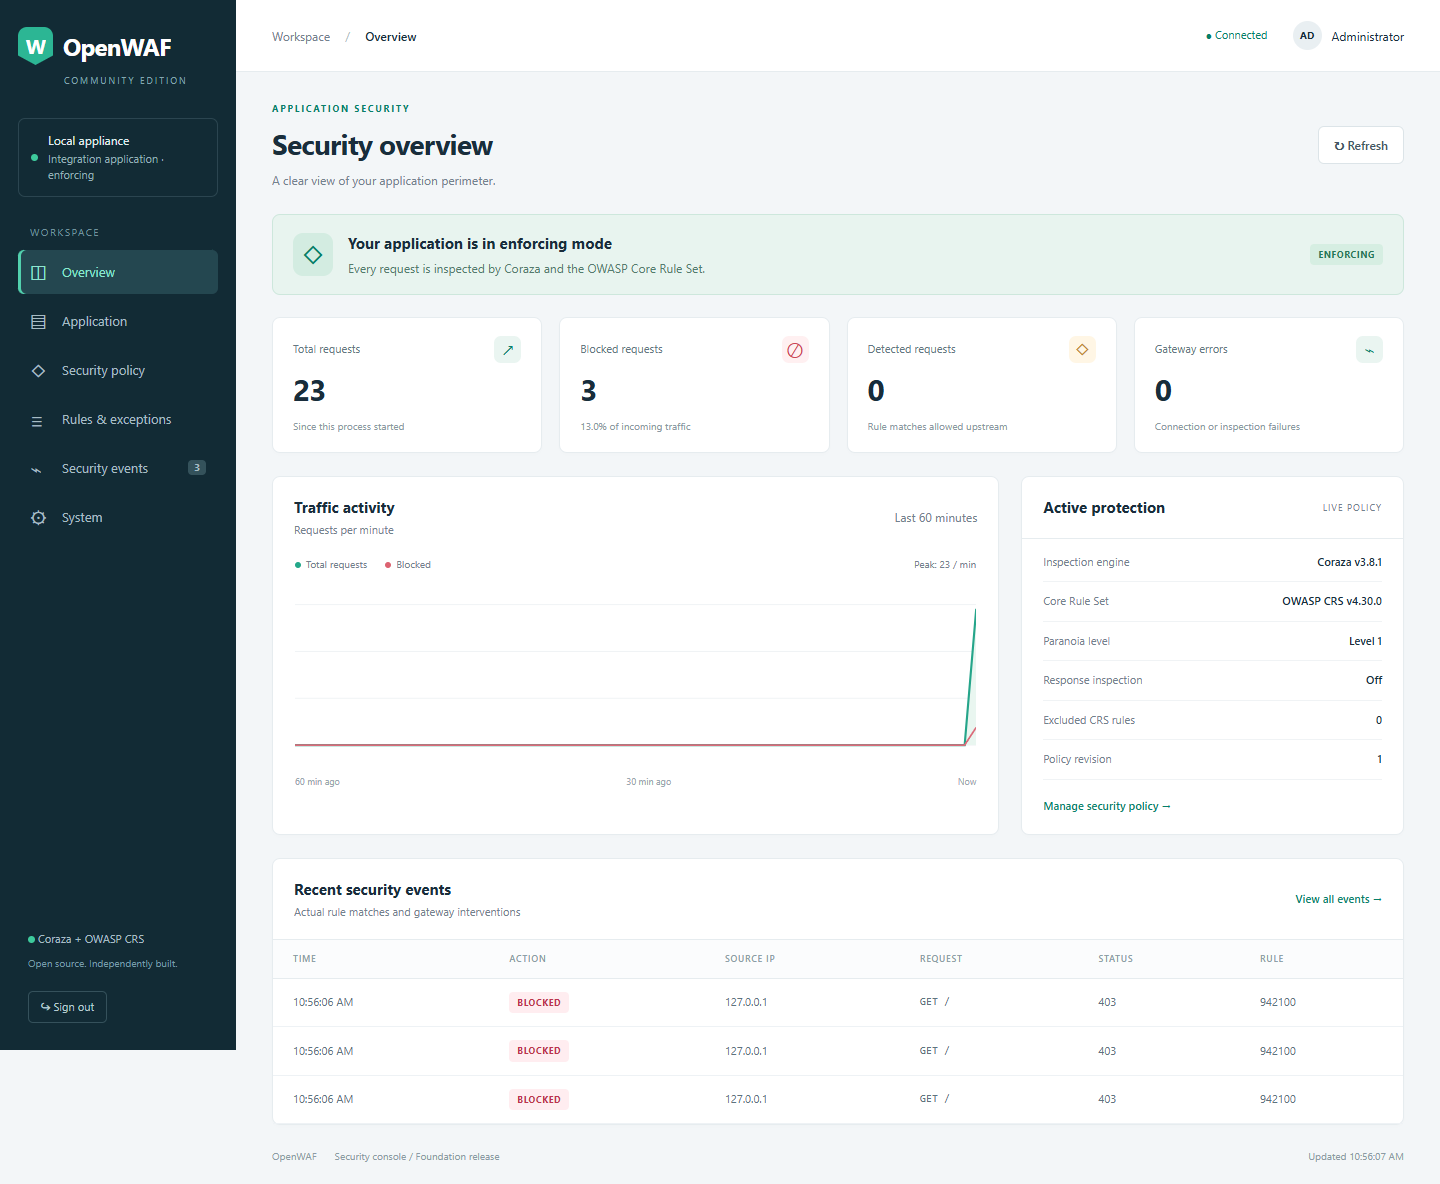
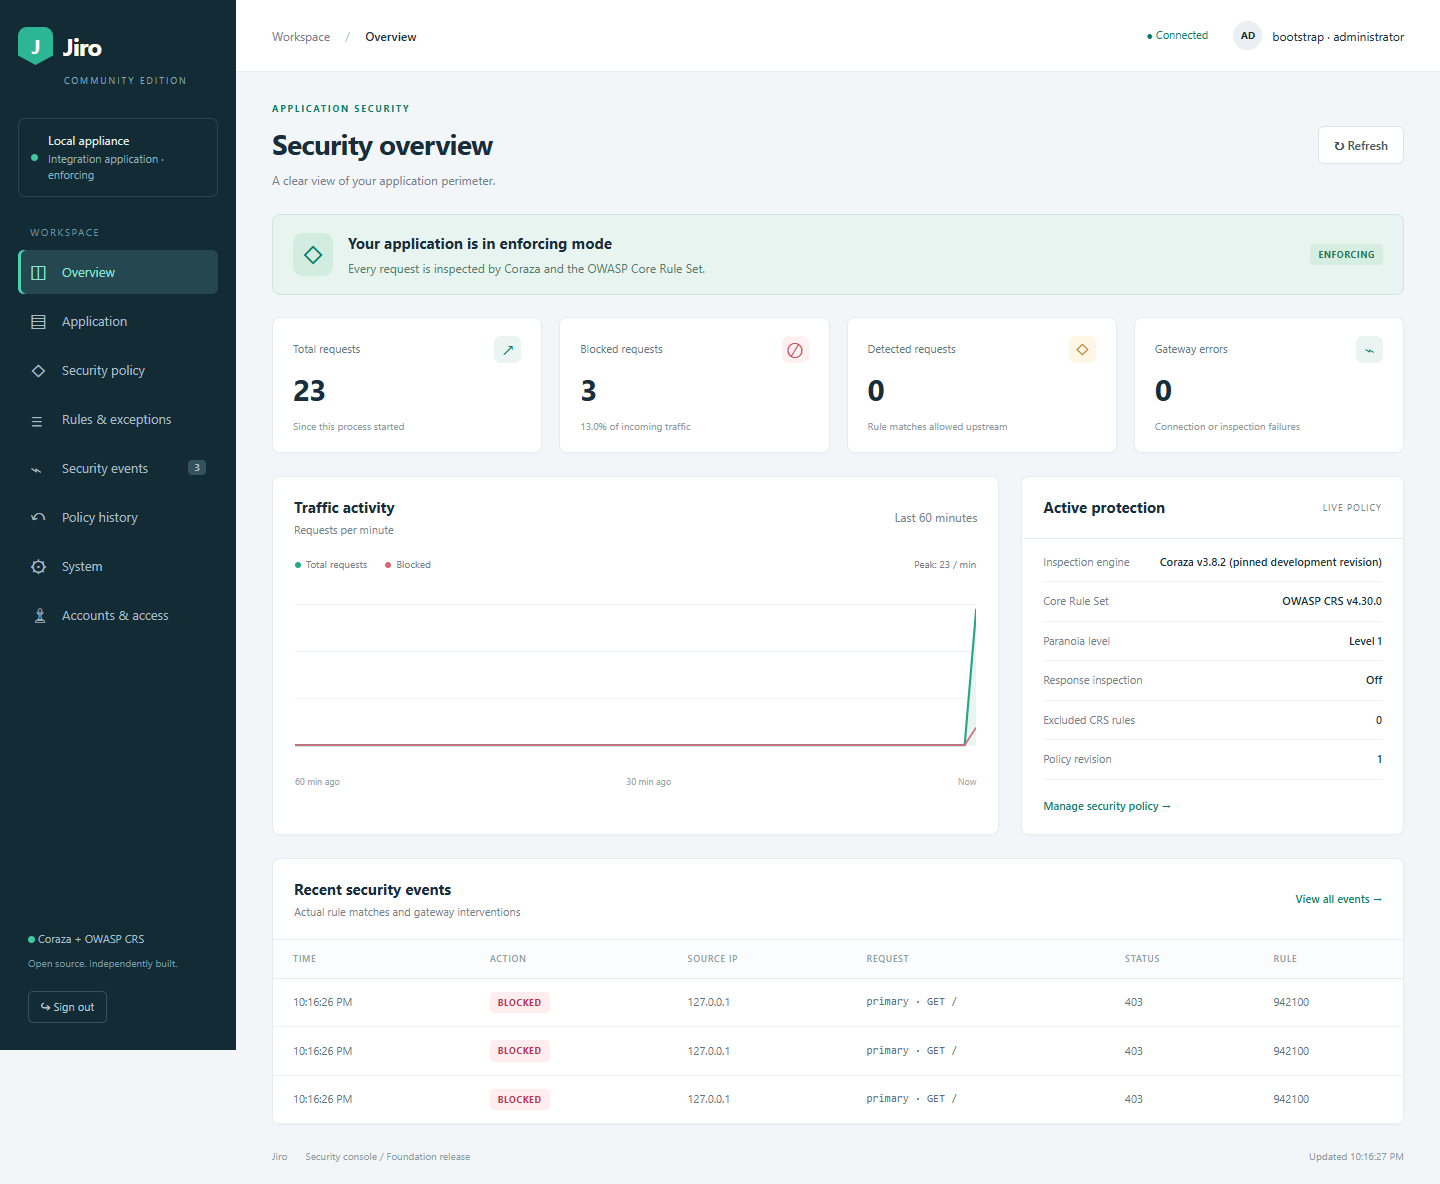
Apply Jiro console branding and refresh tested publication screenshots

diff --git a/ui/dashboard.html b/ui/dashboard.html
@@ -3,7 +3,7 @@
   <head>
     <meta charset="utf-8" />
     <meta name="viewport" content="width=device-width,initial-scale=1" />
-    <title>OpenWAF · Security console</title>
+    <title>Jiro · Security console</title>
     <link rel="stylesheet" href="/styles.css" />
     <script defer src="/app.js"></script>
   </head>
@@ -11,7 +11,7 @@
     <section id="login" class="login-screen" hidden>
       <div class="login-card">
         <div class="brand">
-          <span class="brand-mark">W</span>OpenWAF<span class="edition"
+          <span class="brand-mark">J</span>Jiro<span class="edition"
             >COMMUNITY</span
           >
         </div>
@@ -48,7 +48,7 @@
     <div id="shell" class="shell" hidden>
       <aside class="sidebar">
         <a class="brand" href="#overview"
-          ><span class="brand-mark">W</span>OpenWAF</a
+          ><span class="brand-mark">J</span>Jiro</a
         ><span class="workspace-label">COMMUNITY EDITION</span>
         <div class="appliance">
           <span class="status-dot"></span>
@@ -700,7 +700,7 @@
           </section>
         </main>
         <footer>
-          OpenWAF <span>Security console / Foundation release</span
+          Jiro <span>Security console / Foundation release</span
           ><span id="last-updated">Waiting for telemetry</span>
         </footer>
       </div>

diff --git a/scripts/prepare-public-source.py b/scripts/prepare-public-source.py
@@ -18,7 +18,7 @@ BLOCKED_SUFFIXES = {'.exe','.zip','.tar','.gz','.db','.sqlite','.pem','.key','.p
 OLD_MODULE = 'github.com/openwaf/openwaf'
 NEW_MODULE = 'github.com/sidimohammedbouabdallah22-eng/Jiro'
 
-README = '''# OpenWAF
+README = '''# Jiro
 
 A self-hosted Go reverse proxy integrating OWASP Coraza and the OWASP Core Rule
 Set with an embedded security administration console.
@@ -94,7 +94,7 @@ Maintained by [sidimohammedbouabdallah22-eng](https://github.com/sidimohammedbou
 Development uses AI-assisted coding. Qualification records distinguish measured
 results from outstanding review and release gates.
 
-OpenWAF is licensed under [Apache-2.0](LICENSE). Upstream components retain
+Jiro is licensed under [Apache-2.0](LICENSE). Upstream components retain
 their own licenses and notices.
 '''
 

diff --git a/PUBLICATION.md b/PUBLICATION.md
@@ -1,8 +1,8 @@
 # Publication review notes
 
-This is a prepared source preview for `sidimohammedbouabdallah22-eng/Jiro`.
+This is the published development preview for `sidimohammedbouabdallah22-eng/Jiro`.
 The maintainer confirmed Apache-2.0 on 7 November 2026. Public repository
-creation is complete. This source snapshot is prepared for publication.
+creation and initial source publication were completed on 7 November 2026.
 
 ## Provenance
 
@@ -31,7 +31,7 @@ It includes failed gates and identifies maintainer-run evidence.
 - Apache-2.0 was confirmed by the maintainer on 7 November 2026. The project
   LICENSE and upstream notices are included.
 - Review the source snapshot, scan report and module namespace.
-- Enable GitHub private vulnerability reporting and verify SECURITY.md's route.
+- GitHub private vulnerability reporting is enabled. SECURITY.md describes the reporting route.
 - Run the supplied workflows after repository creation and inspect their results.
 - Publish the project as a development preview with the documented limitations.
 - Keep personal application correspondence outside the source repository.
